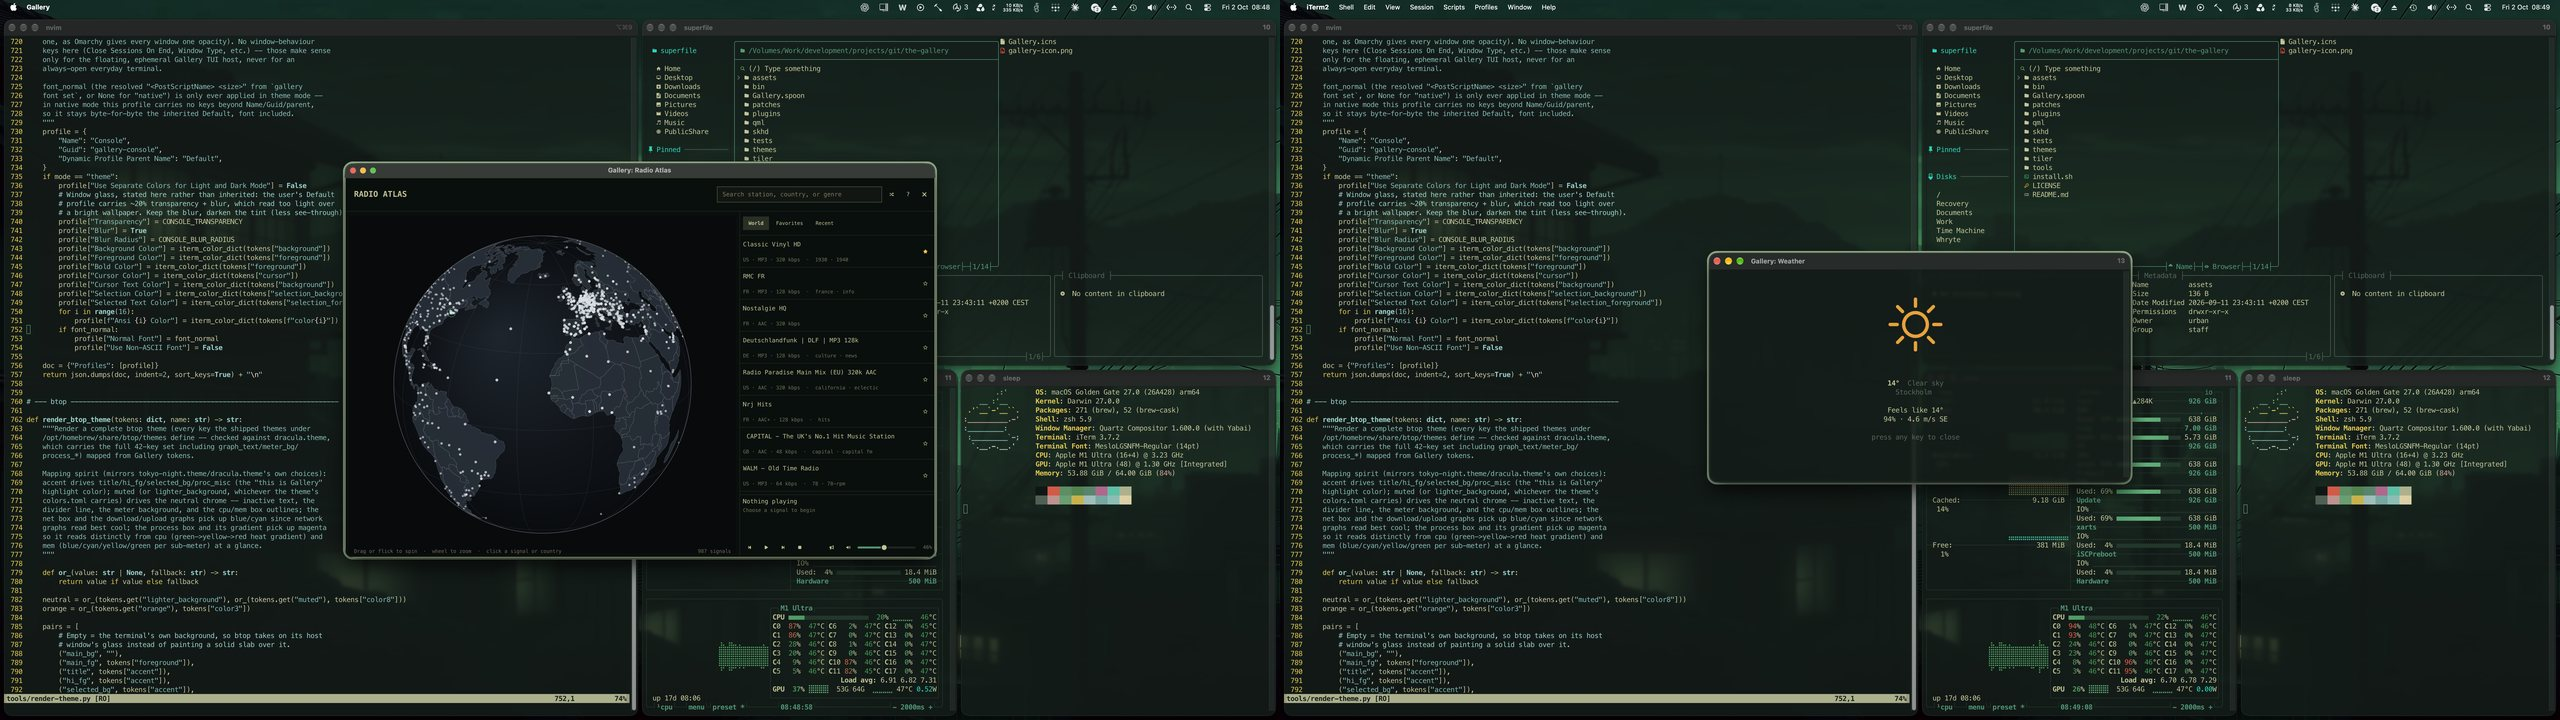
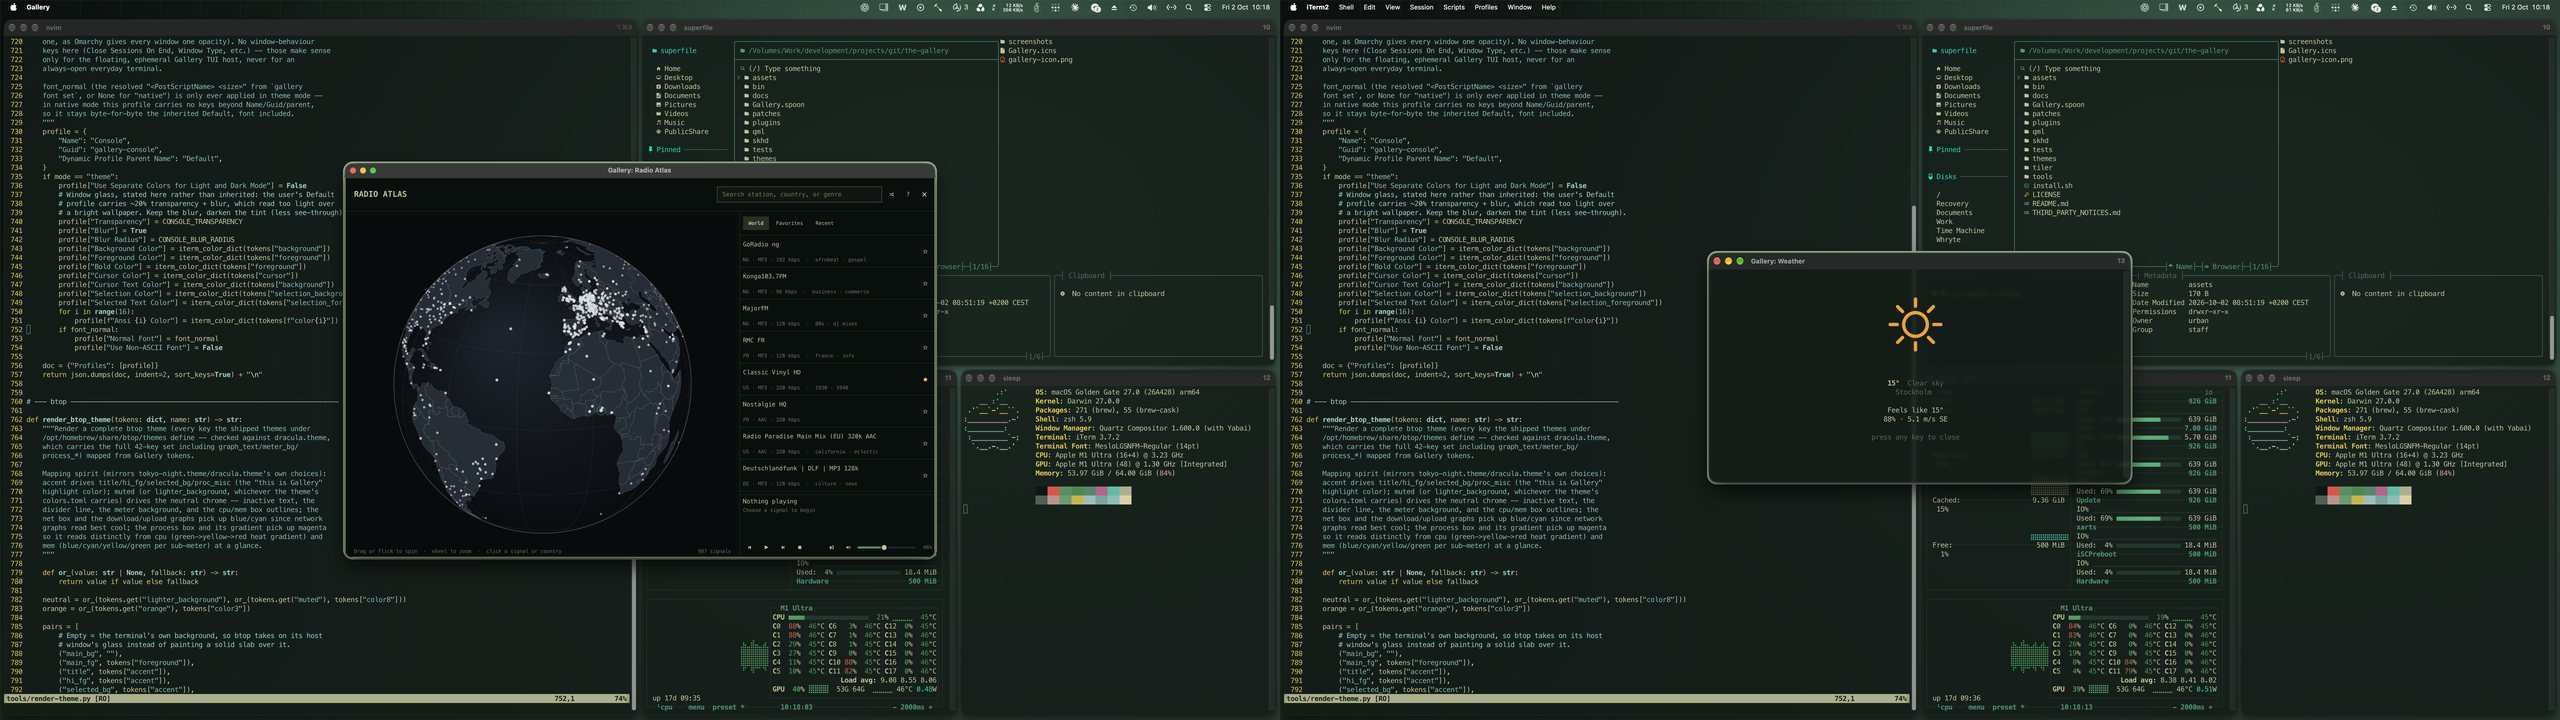
docs: new screenshots on generated wallpapers, a terminals shot, live reload
The screenshots are retaken on wallpapers generated from each theme's own
palette, so no third-party art appears in them, and a new one shows
iTerm2, Ghostty, kitty and WezTerm side by side in one theme. The live
reload text now matches what was observed: every running terminal is
asked, and kitty re-reads the changed include by itself.

diff --git a/README.md b/README.md
@@ -41,6 +41,12 @@ a floating TUI:
 
 ![Radio Atlas and the weather panel](assets/screenshots/plugins.jpg)
 
+**Your terminal.** iTerm2, Ghostty, kitty and WezTerm all take the theme,
+the glass and the font, and follow a theme change live (see
+[Terminals](#terminals)):
+
+![iTerm2, Ghostty, kitty and WezTerm tiled side by side in one theme](assets/screenshots/terminals.jpg)
+
 ## The whole thing on one page
 
 Nothing here is a daemon of its own. The Gallery is three borrowed tools
@@ -246,7 +252,7 @@ Floating Gallery windows always get the Gallery theme; tiled windows
 |---|---|---|---|---|
 | iTerm2 | the "Gallery" dynamic profile | set by the command | dynamic profiles reload themselves | the "Console" profile (set as default once, see below) |
 | Ghostty | palette set by escape sequences in that window (opacity and blur are yours) | set by a wrapper | `reload_config` over AppleScript, if running | one `config-file = ?...` line in `~/.config/ghostty/config` |
-| kitty | `--config` with the rendered `kitty.conf` | `--title` | `kitty @ set-colors`, if remote control is on | one `include ...` line in `~/.config/kitty/kitty.conf` |
+| kitty | `--config` with the rendered `kitty.conf` | `--title` | kitty re-reads the changed include itself; `kitty @ set-colors` too, if remote control is on | one `include ...` line in `~/.config/kitty/kitty.conf` |
 | WezTerm | `--config` glass plus escape-sequence palette | set by a wrapper | automatic (the module is on wezterm's reload watch list) | two Lua lines in your `wezterm.lua` |
 
 The renderer writes `ghostty.conf`, `kitty.conf` and `wezterm.lua` into
@@ -255,10 +261,10 @@ configured. `console theme` adds exactly one marked include line to the config
 of Ghostty or kitty (creating the file if missing, with a `.gallery-bak` copy
 before the first edit of an existing one); `console native` removes it. For
 WezTerm it never edits your Lua: it prints the two lines to add, and writes
-`~/.wezterm.lua` with them only when you have no wezterm config at all. For
-kitty to be updated live, enable remote control in `kitty.conf`
-(`allow_remote_control socket-only` and `listen_on unix:/tmp/kitty`); without
-it, new windows get the theme and running ones keep their colours.
+`~/.wezterm.lua` with them only when you have no wezterm config at all. Running
+kitty windows pick a theme change up by re-reading the changed include; with
+remote control enabled in `kitty.conf` (`allow_remote_control socket-only` and
+`listen_on unix:/tmp/kitty`) the renderer also pushes the colours at once.
 
 iTerm2 and Ghostty are driven over AppleScript, so the first window raises the
 Automation prompt for the caller. Alacritty is not supported yet: `gallery-term`

diff --git a/docs/THEMES.md b/docs/THEMES.md
@@ -223,12 +223,12 @@ sequences (its opacity and blur stay yours). Your everyday terminal follows the
 theme only after `gallery console theme`: iTerm2's "Console" profile, one
 include line in the Ghostty or kitty config, two Lua lines for WezTerm.
 
-After writing, the renderer asks the configured terminal, if it is already
-running, to pick the change up: Ghostty over AppleScript (`reload_config`),
-kitty with `kitty @ set-colors` when a remote-control socket is reachable
-(`allow_remote_control` and `listen_on` in `kitty.conf`; without one, new
-windows get the theme and running ones keep their colours). WezTerm reloads by
-itself and iTerm2 reloads its dynamic profiles. Nothing is ever launched for
+After writing, the renderer asks every supported terminal that is already
+running, configured or not, to pick the change up: Ghostty over AppleScript
+(`reload_config`), and kitty with `kitty @ set-colors` when a remote-control
+socket is reachable (`allow_remote_control` and `listen_on` in `kitty.conf`).
+kitty also re-reads the changed include by itself, WezTerm reloads its module
+by itself, and iTerm2 reloads its dynamic profiles. Nothing is ever launched for
 this. `GALLERY_NO_TERMINAL_RELOAD=1` skips it.
 
 ### iTerm2 profiles

diff --git a/docs/INSTALL.md b/docs/INSTALL.md
@@ -175,9 +175,10 @@ Per terminal, beyond the install:
   should not leave Ghostty's own startup window behind.
 - **kitty.** Nothing for floating windows. `gallery console theme` adds an
   `include` line for `state/terminals/kitty.conf` to
-  `~/.config/kitty/kitty.conf`. For colours to change in running windows, enable
-  remote control there: `allow_remote_control socket-only` and
-  `listen_on unix:/tmp/kitty`.
+  `~/.config/kitty/kitty.conf`. Running windows re-read the changed include
+  on a theme change; enabling remote control there (`allow_remote_control
+  socket-only` and `listen_on unix:/tmp/kitty`) also lets the renderer push the
+  colours at once.
 - **WezTerm.** Nothing for floating windows. For `gallery console theme`,
   the Gallery prints two lines for your `wezterm.lua`
   (and writes `~/.wezterm.lua` with them if you have no config):
